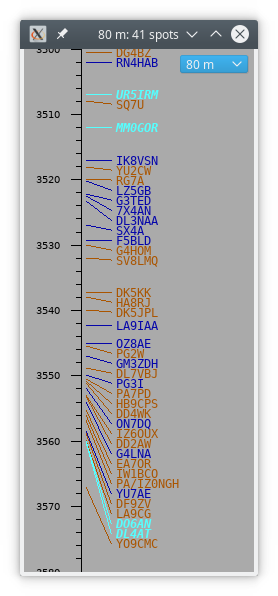
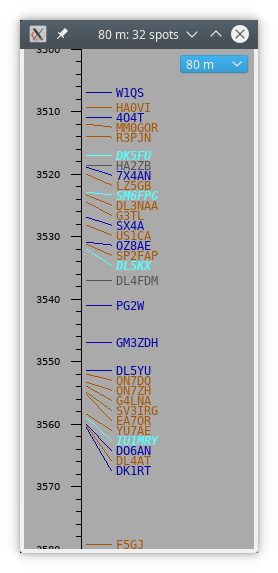
fix dupe color

diff --git a/tlf_bandmap.py b/tlf_bandmap.py
@@ -155,7 +155,7 @@ class TlfBandmap(QWidget):
         new_color = QColor('#55ffff')
         normal_color = QColor('#0505aa')
         old_color = QColor('#aa5500')
-        dupe_color = Qt.gray
+        dupe_color = QColor('#555555')
         normal_font = QFont('Monospace', 10)
         new_font = QFont('Monospace', 10, QFont.Bold, True)
         ymin = 0
